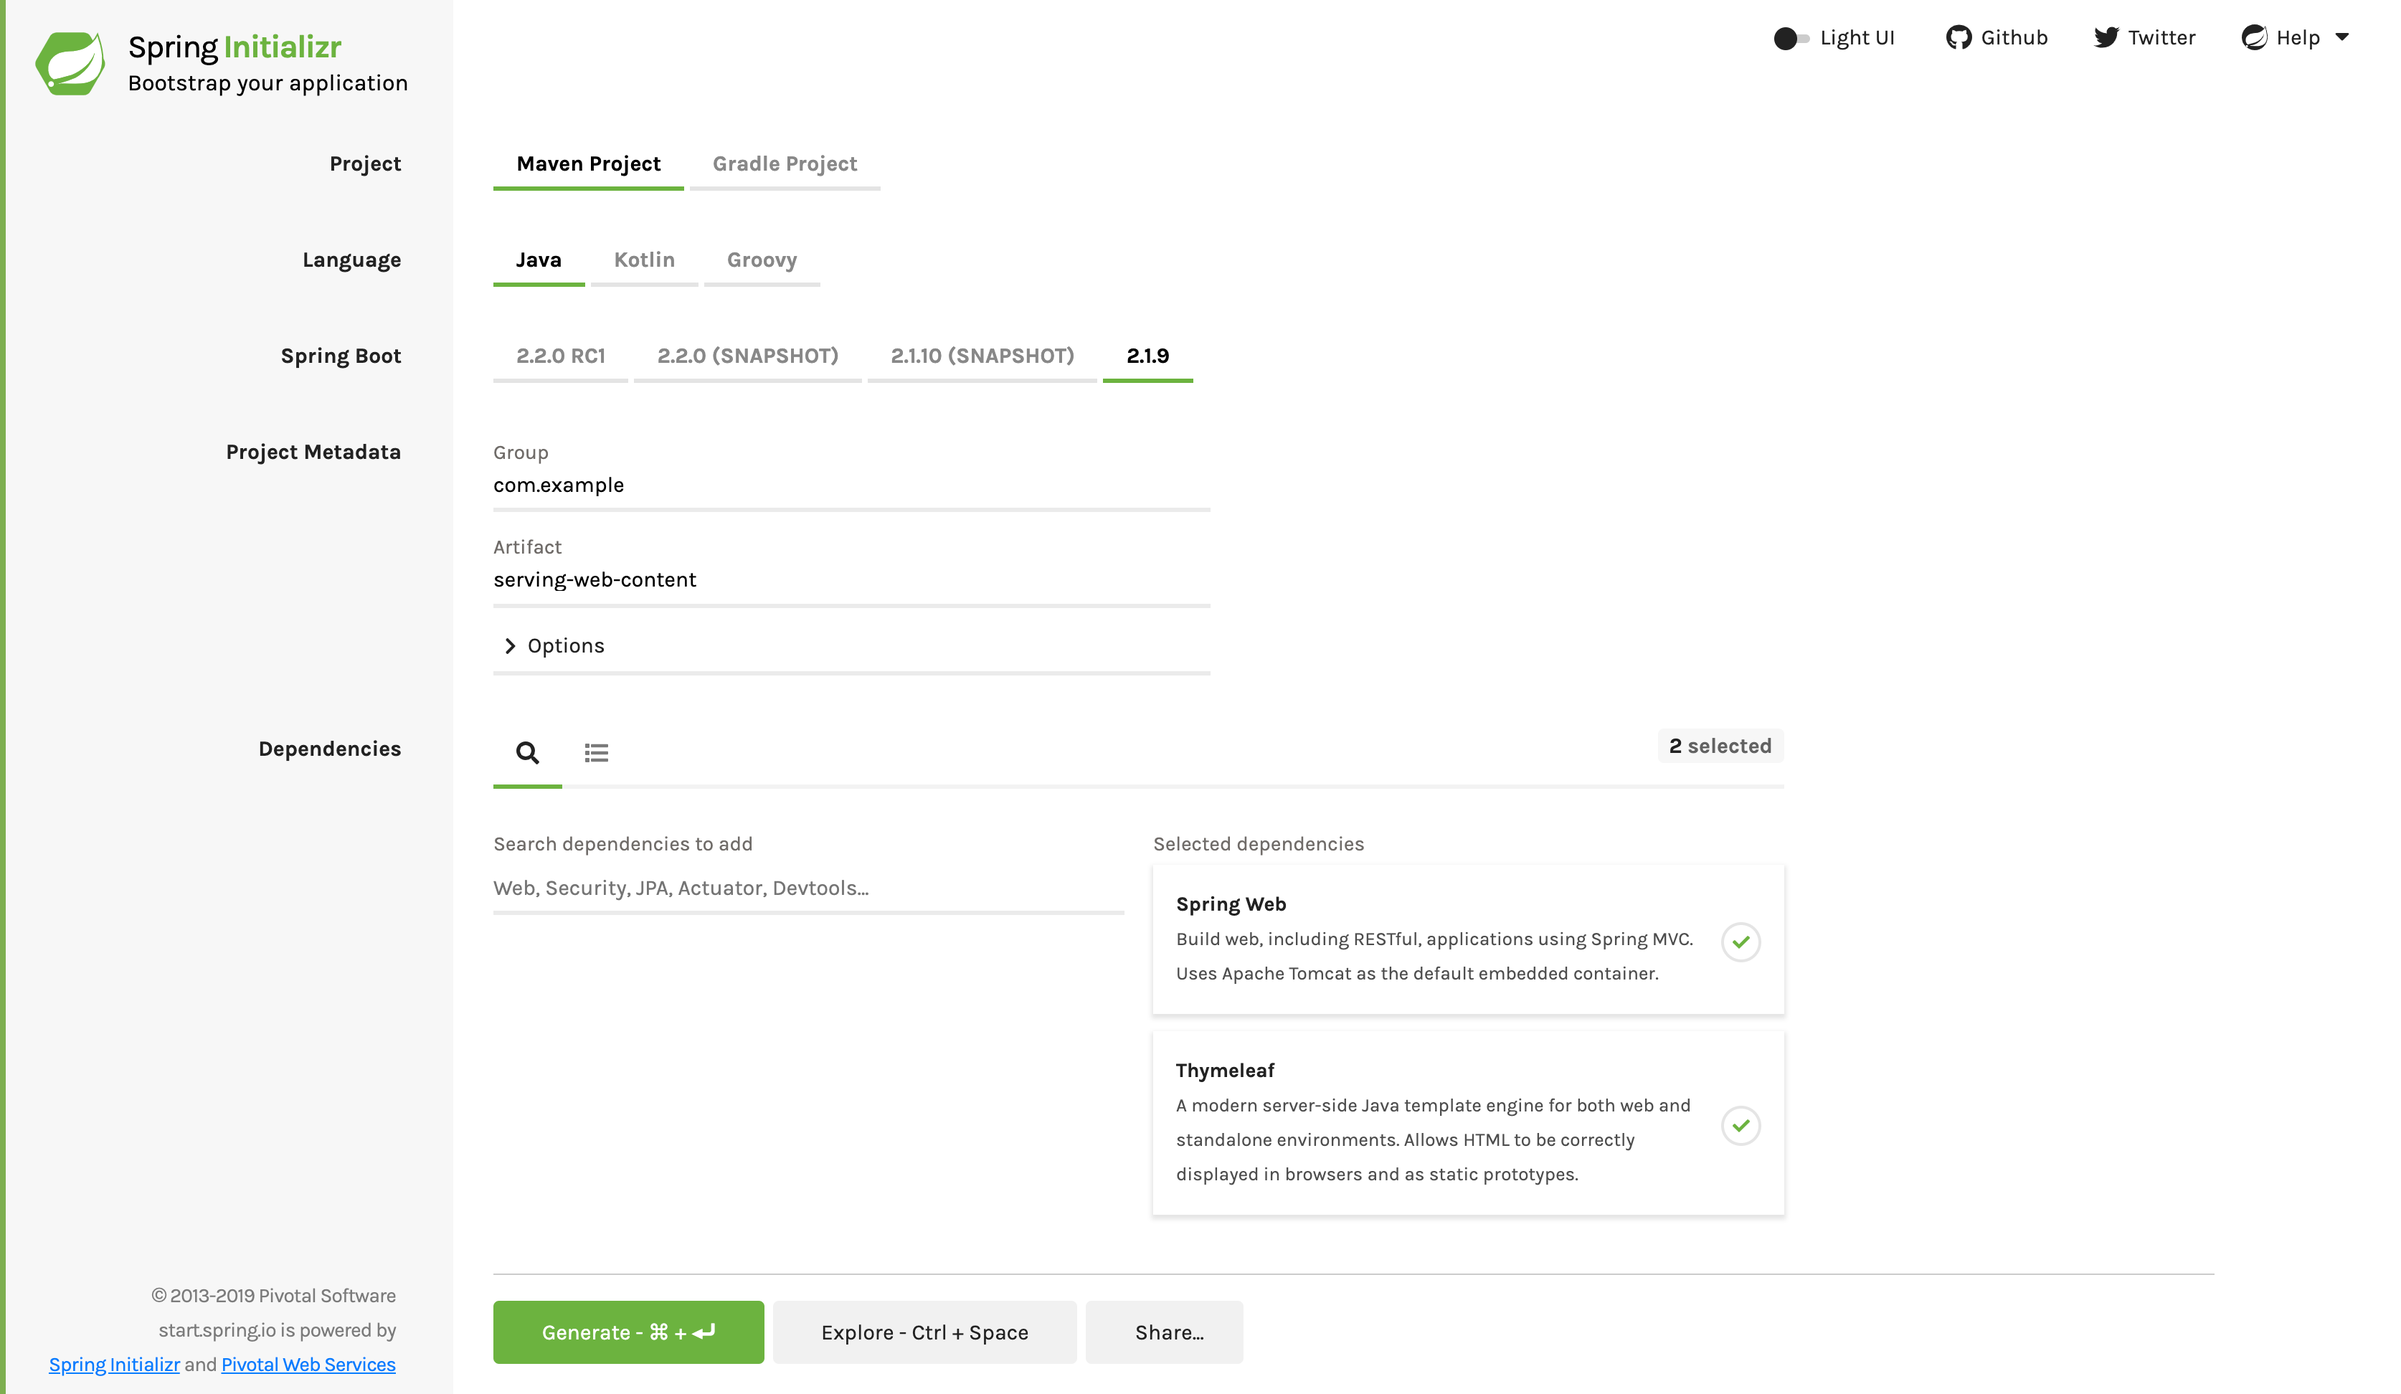
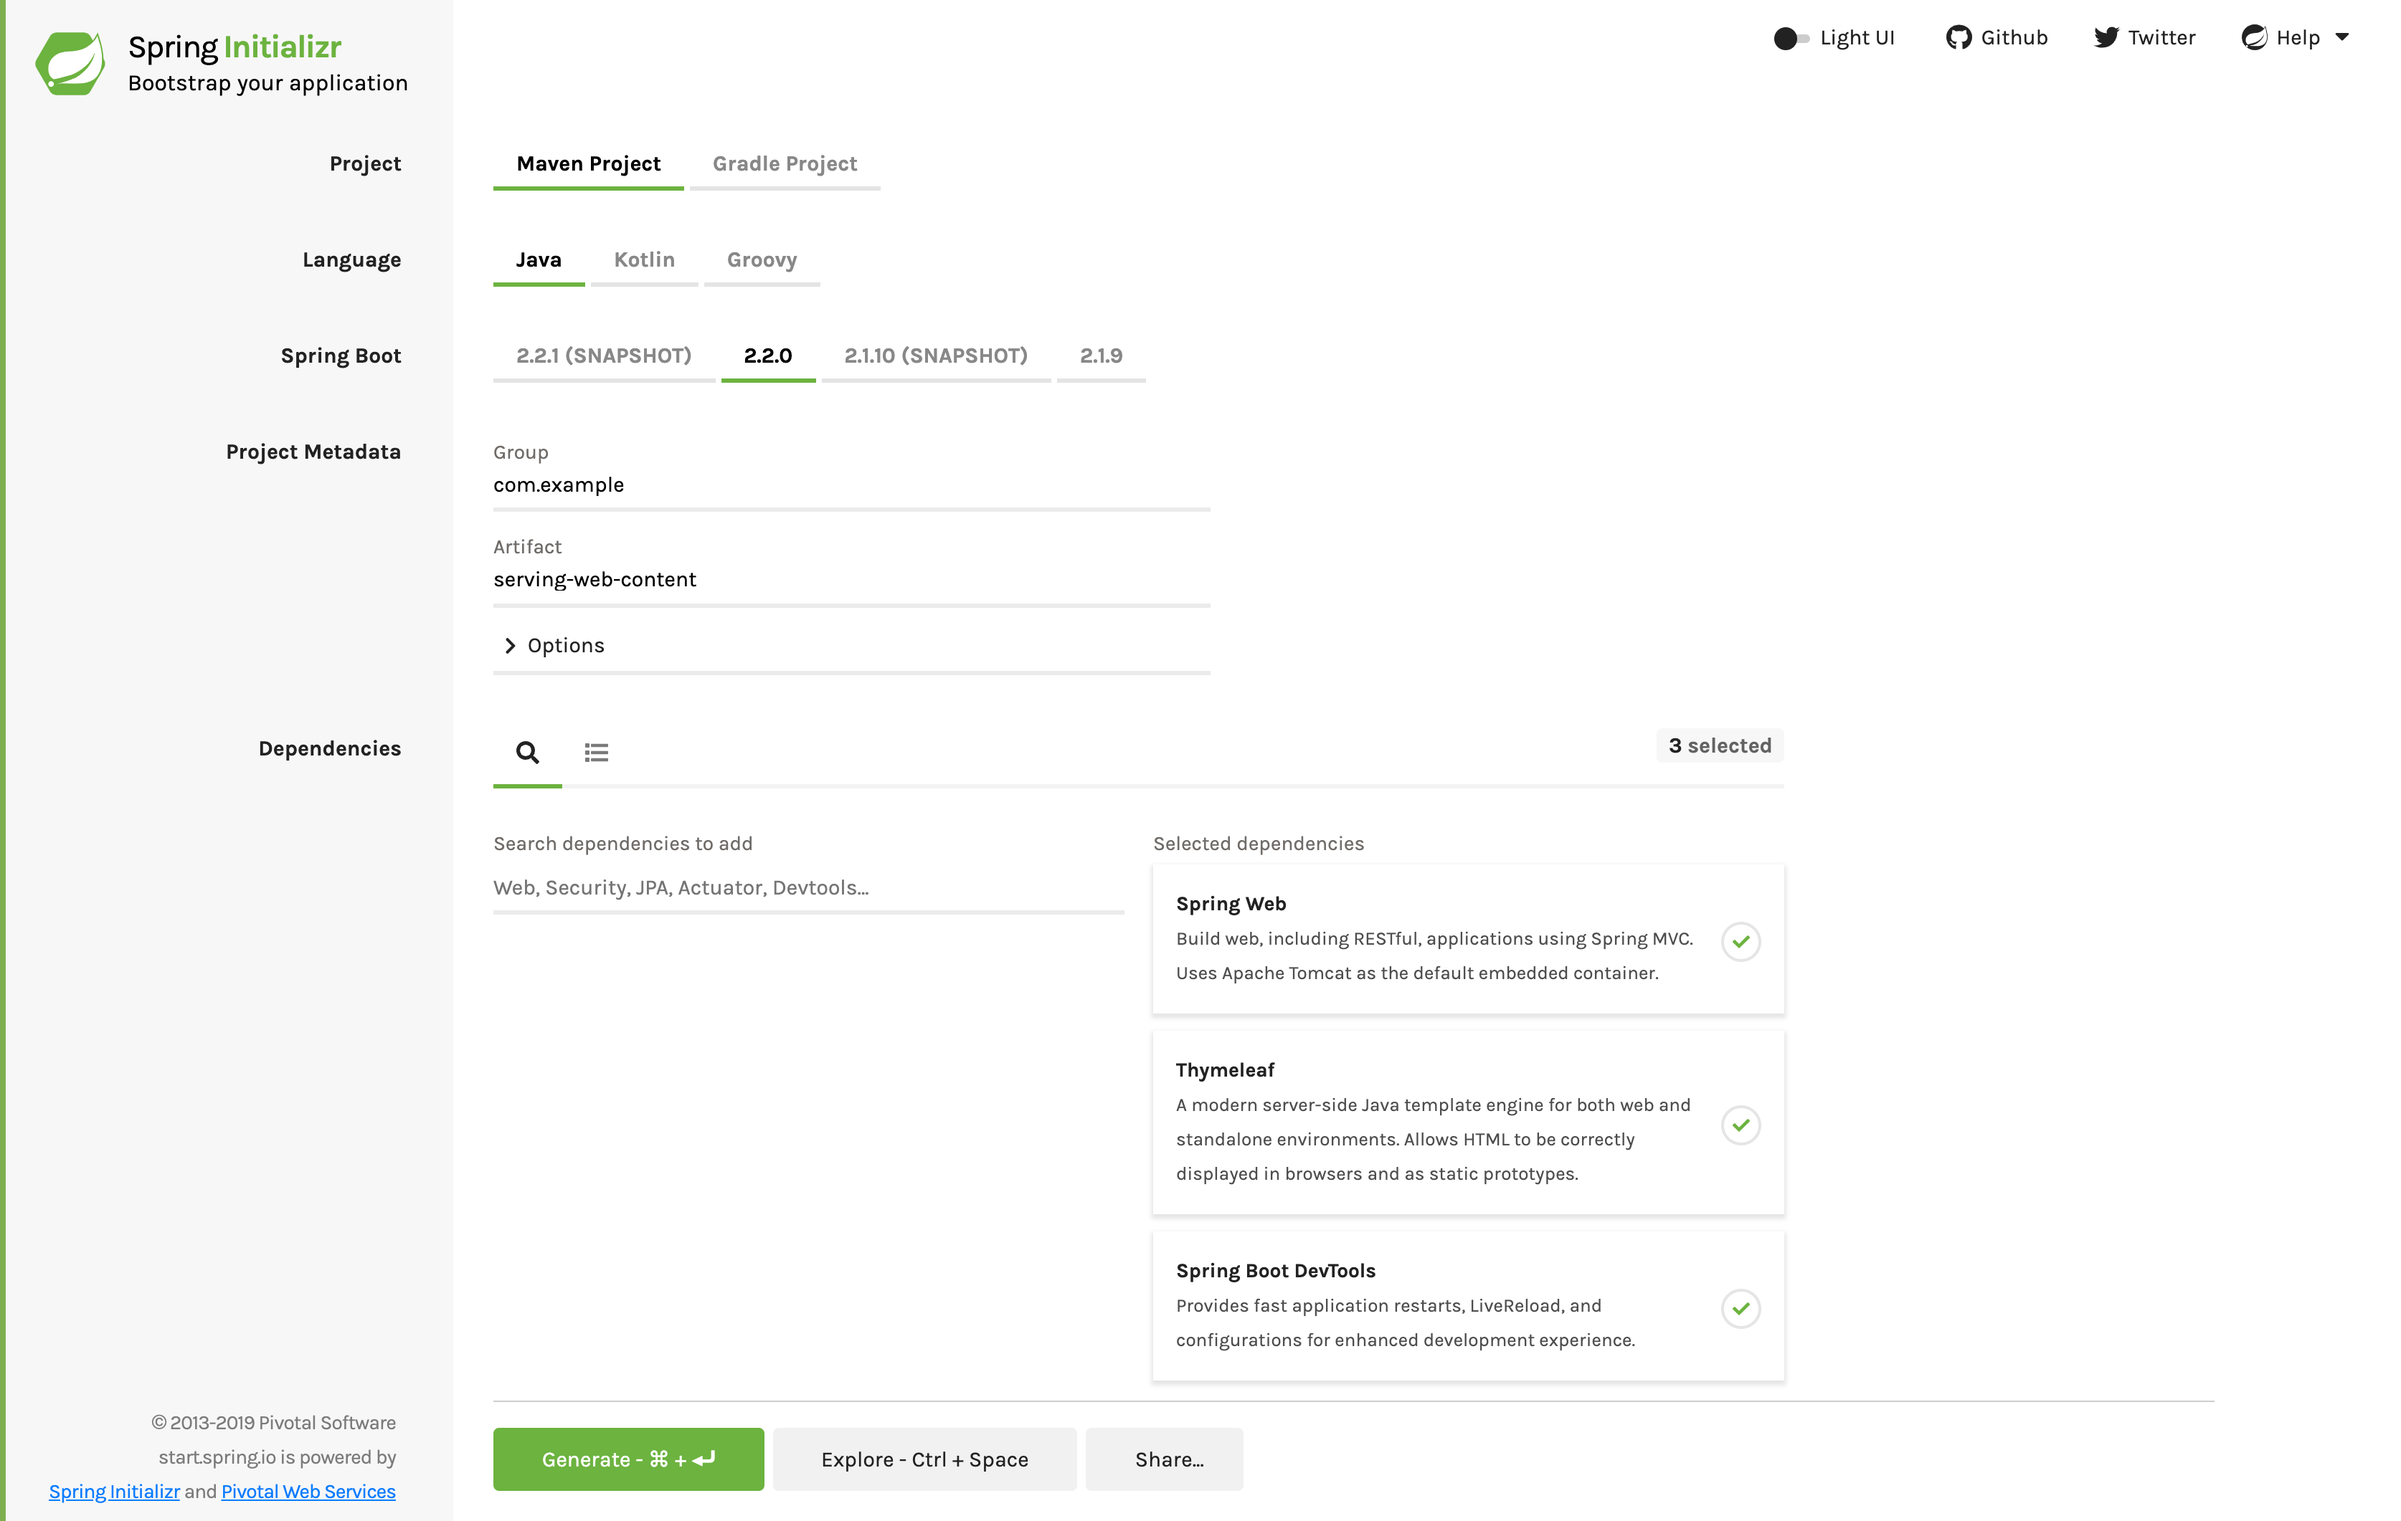
Upgraded to Spring Boot 2.2
I upgraded the build files to Spring Boot 2.2.0, which necessitated changing the tests to work with JUnit 5 and replacing the Gradle wrappers. I also edited the README.adoc file to account for the DevTools dependency, which I had not called out in the earlier revision.

diff --git a/complete/src/test/java/com/example/servingwebcontent/ServingnWebContentApplicationTest.java b/complete/src/test/java/com/example/servingwebcontent/ServingnWebContentApplicationTest.java
@@ -20,14 +20,12 @@ import static org.hamcrest.Matchers.containsString;
 import static org.springframework.test.web.servlet.request.MockMvcRequestBuilders.get;
 import static org.springframework.test.web.servlet.result.MockMvcResultMatchers.content;
 
-import org.junit.Test;
-import org.junit.runner.RunWith;
+import org.junit.jupiter.api.Test;
+
 import org.springframework.beans.factory.annotation.Autowired;
 import org.springframework.boot.test.autoconfigure.web.servlet.WebMvcTest;
-import org.springframework.test.context.junit4.SpringRunner;
 import org.springframework.test.web.servlet.MockMvc;
 
-@RunWith(SpringRunner.class)
 @WebMvcTest(controllers = GreetingController.class)
 public class ServingnWebContentApplicationTest {
 

diff --git a/initial/src/test/java/com/example/servingwebcontent/ServingWebContentApplicationTests.java b/initial/src/test/java/com/example/servingwebcontent/ServingWebContentApplicationTests.java
@@ -1,16 +1,13 @@
 package com.example.servingwebcontent;
 
-import org.junit.Test;
-import org.junit.runner.RunWith;
+import org.junit.jupiter.api.Test;
 import org.springframework.boot.test.context.SpringBootTest;
-import org.springframework.test.context.junit4.SpringRunner;
 
-@RunWith(SpringRunner.class)
 @SpringBootTest
-public class ServingWebContentApplicationTests {
+class ServingWebContentApplicationTests {
 
 	@Test
-	public void contextLoads() {
+	void contextLoads() {
 	}
 
 }
